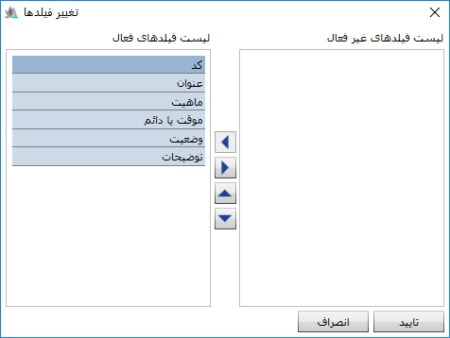
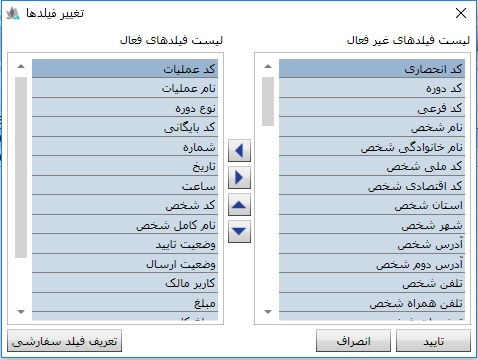
تعریف فیلد سفارشی

diff --git a/Help/fa-IR/_00_شروع کار با راهنما/_05_ابزار های عمومی نرم افزار/Index.html b/Help/fa-IR/_00_شروع کار با راهنما/_05_ابزار های عمومی نرم افزار/Index.html
@@ -60,6 +60,18 @@
 		<img class="PicInText" src="i5.jpg" />
 		نیز می توانید ترتیب فیلد های فعال را عوض کنید.
 	</p>
+	<img class="PicInText" src="i21.jpg" />
+	<p>
+		با استفاده از کلید فوق می توانید فیلد مورد نظر خود را در جدول ایجاد کنید 
+		به شرطی که این فیلد در عملیات موجود باشد
+		پس از کلیک کردن بر روی این کلید پنجره ی زیر باز می شود:
+	</p>
+	<img class="BestPic" src="b7.jpg" />
+	<p>
+		بعد از تکمیل کردن اطلاعات جدول فوق بر روی تایید کلیک کنید 
+		تا مطابق شکل زیر فیلد جدید شما در جدول ایجاد شود. 
+	</p>
+	<img class="FitPic" src="l2.jpg" />
 	<p>
 		<img class="Icon" src="i6.jpg" />
 		<b>گروهبندی (Ctrl + G ):</b>
